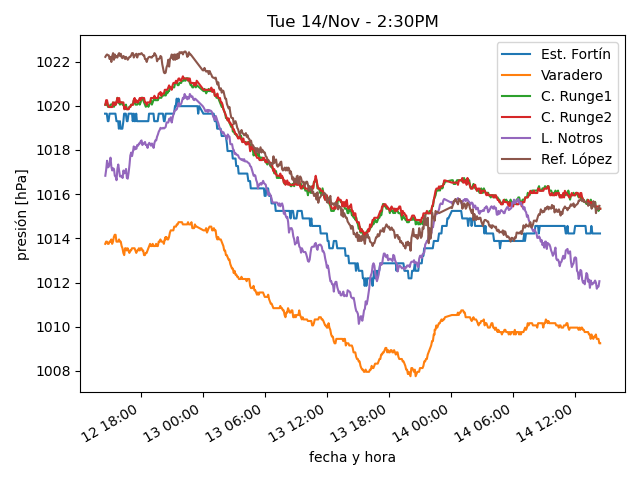
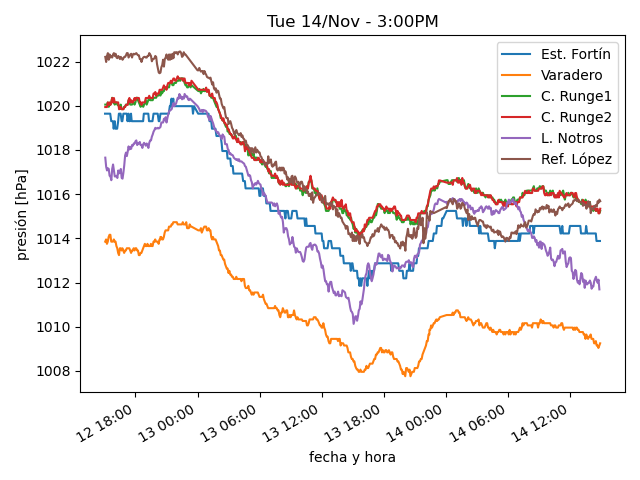
actualiza datos

diff --git a/estaciones/estacion1.html b/estaciones/estacion1.html
@@ -18,12 +18,12 @@
     </tr>
     <tr>
      <td class="stats_data">
-      2:23PM
+      2:53PM
      </td>
     </tr>
     <tr>
      <td class="stats_data">
-      8.1⁰C
+      7.8⁰C
      </td>
     </tr>
     <tr>
@@ -33,17 +33,17 @@
     </tr>
     <tr>
      <td class="stats_data">
-      49.0%
+      50.0%
      </td>
     </tr>
     <tr>
      <td class="stats_data">
-      1014.22hPa
+      1013.88hPa
      </td>
     </tr>
     <tr>
      <td class="stats_data">
-      14.3/33.0 km/hr W
+      20.2/36.2 km/hr WSW
      </td>
     </tr>
     <tr>
@@ -53,12 +53,12 @@
     </tr>
     <tr>
      <td class="stats_data">
-      6.6
+      5.9
      </td>
     </tr>
     <tr>
      <td class="stats_data">
-      1056.0 W/m²
+      967.0 W/m²
      </td>
     </tr>
    </tbody>

diff --git a/estaciones/estacion6.html b/estaciones/estacion6.html
@@ -18,32 +18,32 @@
     </tr>
     <tr>
      <td class="stats_data">
-      2:20PM
+      2:55PM
      </td>
     </tr>
     <tr>
      <td class="stats_data">
-      -1.7⁰C
+      -1.6⁰C
      </td>
     </tr>
     <tr>
      <td class="stats_data">
-      -4.4⁰C
+      -4.6⁰C
      </td>
     </tr>
     <tr>
      <td class="stats_data">
-      82.0%
+      80.0%
      </td>
     </tr>
     <tr>
      <td class="stats_data">
-      1016.86hPa
+      1017.07hPa
      </td>
     </tr>
     <tr>
      <td class="stats_data">
-      9.7/22.5 km/hr SE
+      12.9/22.5 km/hr SE
      </td>
     </tr>
     <tr>
@@ -58,7 +58,7 @@
     </tr>
     <tr>
      <td class="stats_data">
-      905.0 W/m²
+      900.0 W/m²
      </td>
     </tr>
    </tbody>

diff --git a/estaciones/estacion3.html b/estaciones/estacion3.html
@@ -18,32 +18,32 @@
     </tr>
     <tr>
      <td class="stats_data">
-      2:24PM
+      2:54PM
      </td>
     </tr>
     <tr>
      <td class="stats_data">
-      5.5⁰C
+      5.3⁰C
      </td>
     </tr>
     <tr>
      <td class="stats_data">
-      -1.0⁰C
+      -1.2⁰C
      </td>
     </tr>
     <tr>
      <td class="stats_data">
-      62.8%
+      63.0%
      </td>
     </tr>
     <tr>
      <td class="stats_data">
-      1003.62hPa
+      1003.52hPa
      </td>
     </tr>
     <tr>
      <td class="stats_data">
-      11.4/17.4 km/hr NW
+      12.6/18.3 km/hr NW
      </td>
     </tr>
     <tr>
@@ -58,7 +58,7 @@
     </tr>
     <tr>
      <td class="stats_data">
-      287.1 W/m²
+      291.4 W/m²
      </td>
     </tr>
    </tbody>

diff --git a/estaciones/estacion4.html b/estaciones/estacion4.html
@@ -18,22 +18,22 @@
     </tr>
     <tr>
      <td class="stats_data">
-      2:24PM
+      2:54PM
      </td>
     </tr>
     <tr>
      <td class="stats_data">
-      5.9⁰C
+      5.8⁰C
      </td>
     </tr>
     <tr>
      <td class="stats_data">
-      -1.6⁰C
+      -1.8⁰C
      </td>
     </tr>
     <tr>
      <td class="stats_data">
-      58.4%
+      58.1%
      </td>
     </tr>
     <tr>
@@ -43,7 +43,7 @@
     </tr>
     <tr>
      <td class="stats_data">
-      4.3/6.5 km/hr SSW
+      5.1/7.9 km/hr SSW
      </td>
     </tr>
     <tr>
@@ -58,7 +58,7 @@
     </tr>
     <tr>
      <td class="stats_data">
-      234.8 W/m²
+      210.3 W/m²
      </td>
     </tr>
    </tbody>

diff --git a/estaciones/estacion5.html b/estaciones/estacion5.html
@@ -18,32 +18,32 @@
     </tr>
     <tr>
      <td class="stats_data">
-      2:20PM
+      2:50PM
      </td>
     </tr>
     <tr>
      <td class="stats_data">
-      8.3⁰C
+      9.5⁰C
      </td>
     </tr>
     <tr>
      <td class="stats_data">
-      -0.2⁰C
+      1.8⁰C
      </td>
     </tr>
     <tr>
      <td class="stats_data">
-      55.0%
+      59.0%
      </td>
     </tr>
     <tr>
      <td class="stats_data">
-      1014.63hPa
+      1014.26hPa
      </td>
     </tr>
     <tr>
      <td class="stats_data">
-      0.0/0.0 km/hr N
+      0.0/2.6 km/hr N
      </td>
     </tr>
     <tr>

diff --git a/estaciones/estacion2.html b/estaciones/estacion2.html
@@ -18,22 +18,22 @@
     </tr>
     <tr>
      <td class="stats_data">
-      2:24PM
+      2:54PM
      </td>
     </tr>
     <tr>
      <td class="stats_data">
-      6.4⁰C
+      6.6⁰C
      </td>
     </tr>
     <tr>
      <td class="stats_data">
-      1.2⁰C
+      1.1⁰C
      </td>
     </tr>
     <tr>
      <td class="stats_data">
-      69.3%
+      67.8%
      </td>
     </tr>
     <tr>
@@ -43,7 +43,7 @@
     </tr>
     <tr>
      <td class="stats_data">
-      32.3/37.6 km/hr NW
+      32.6/37.5 km/hr NW
      </td>
     </tr>
     <tr>
